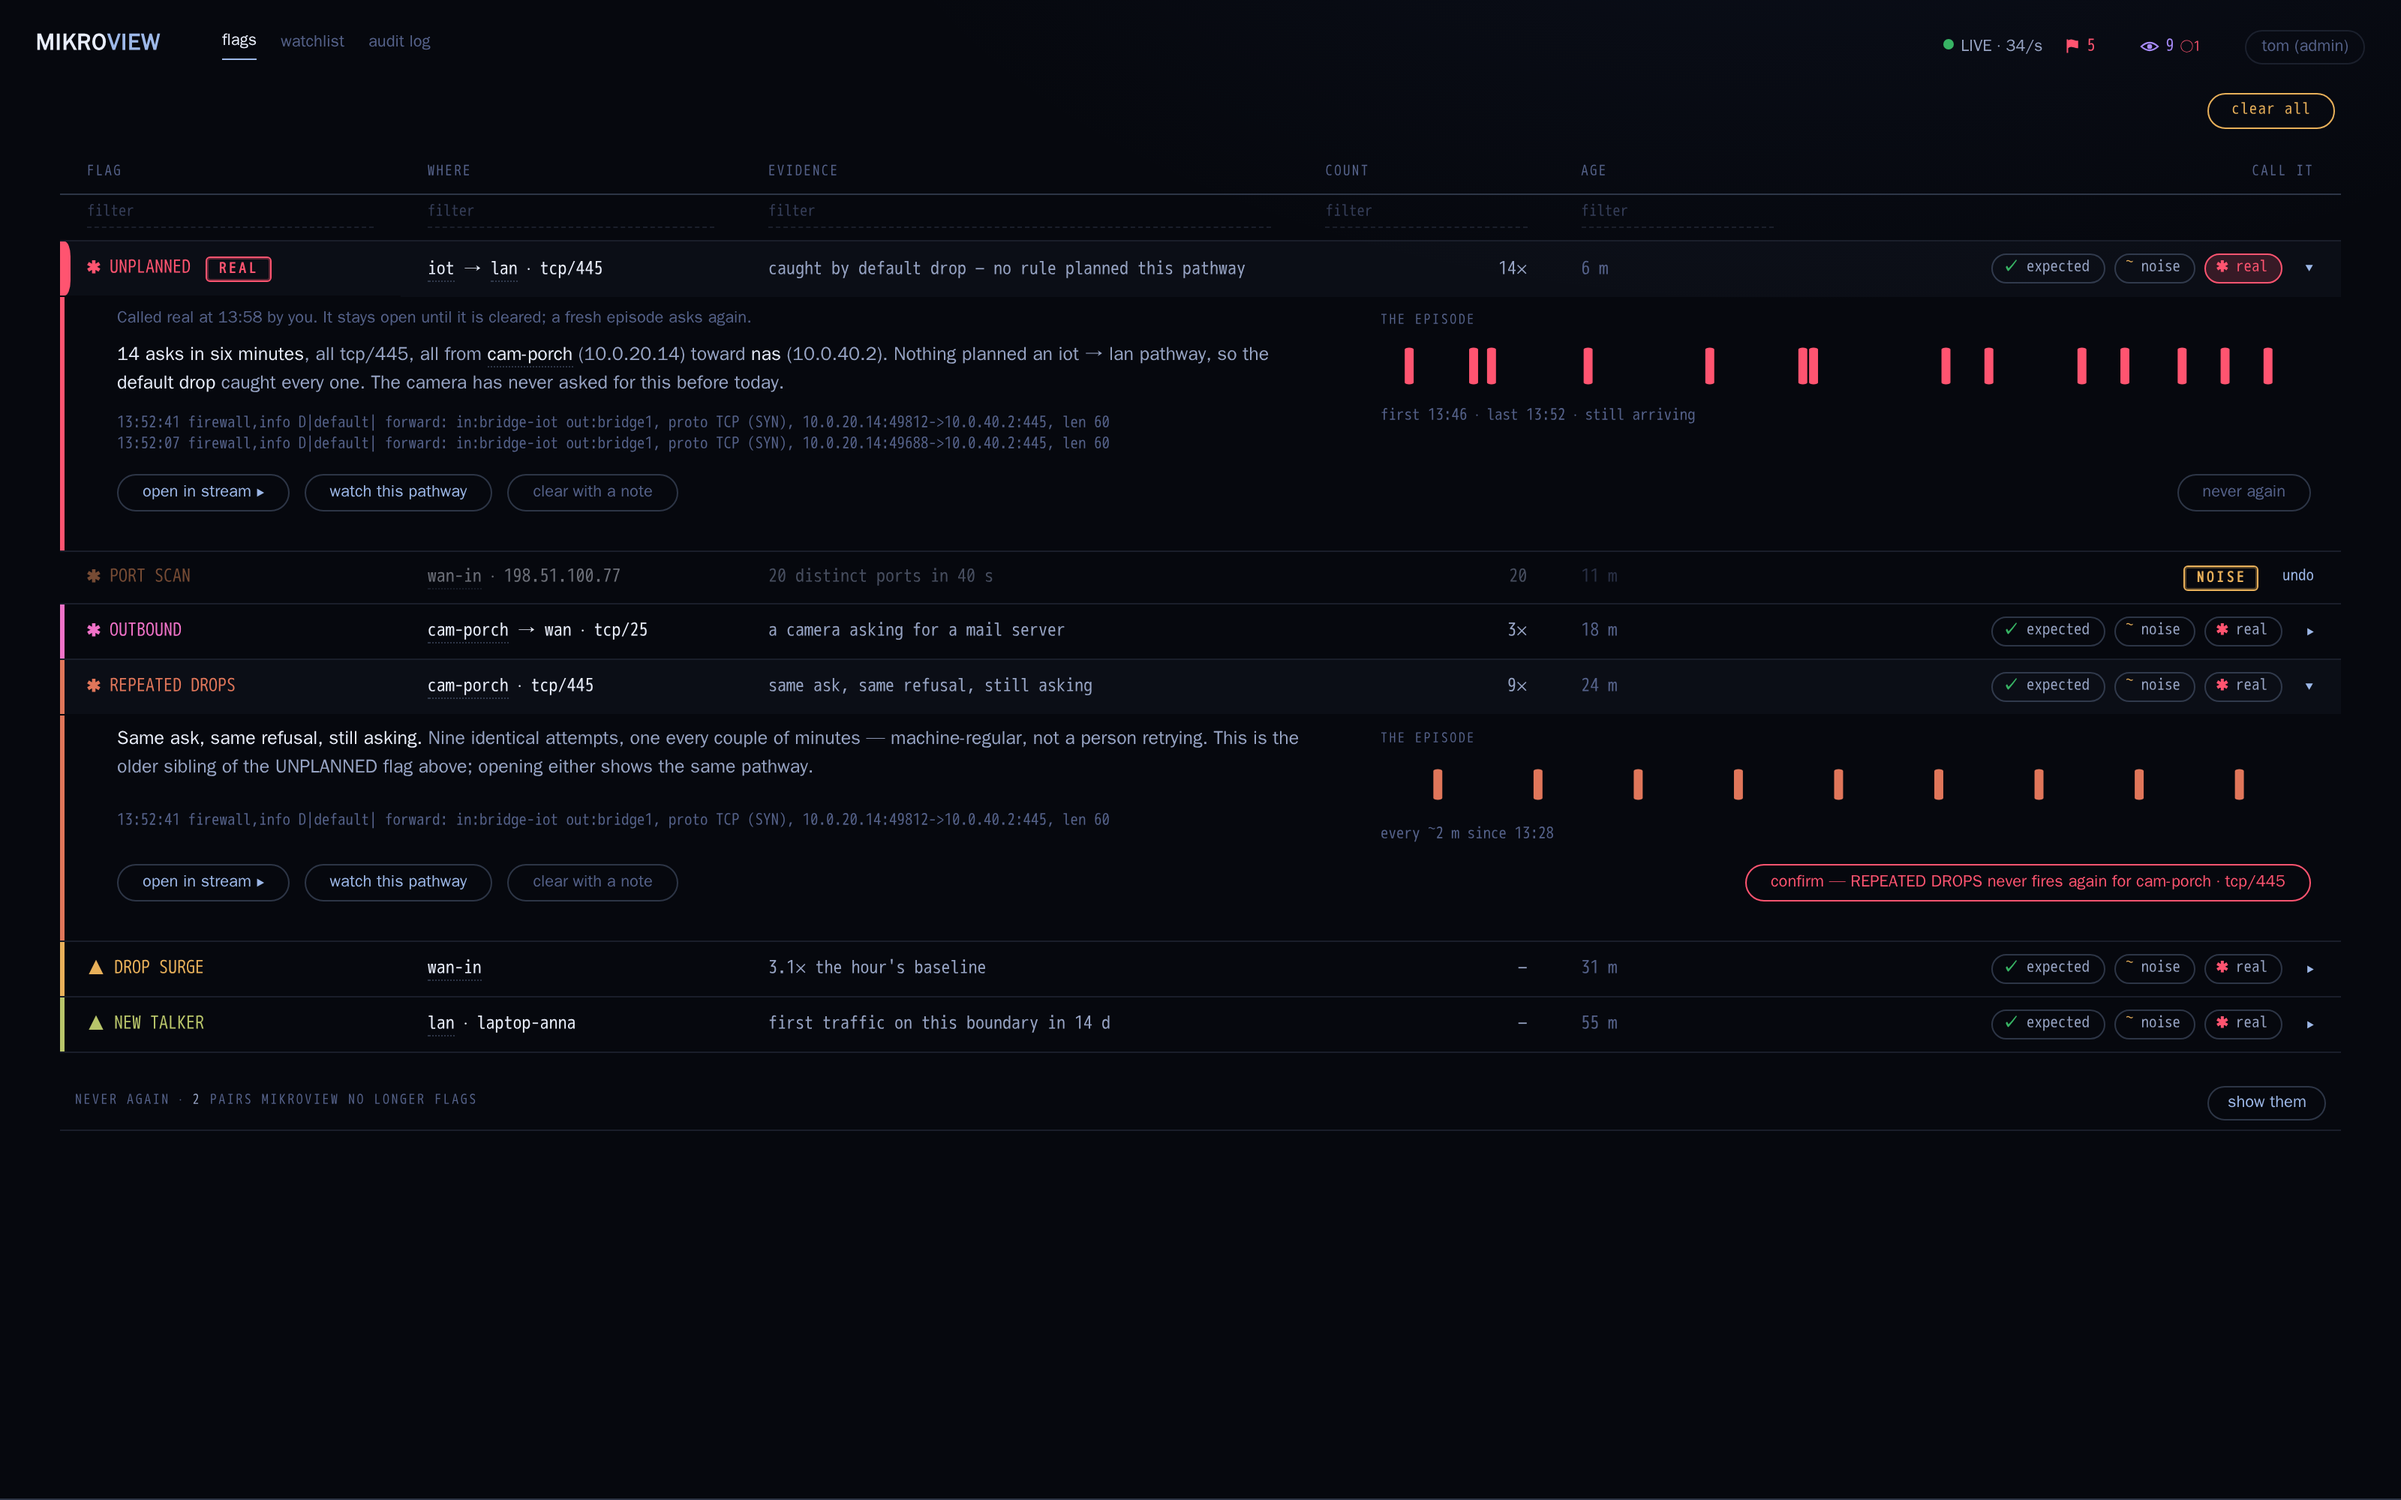
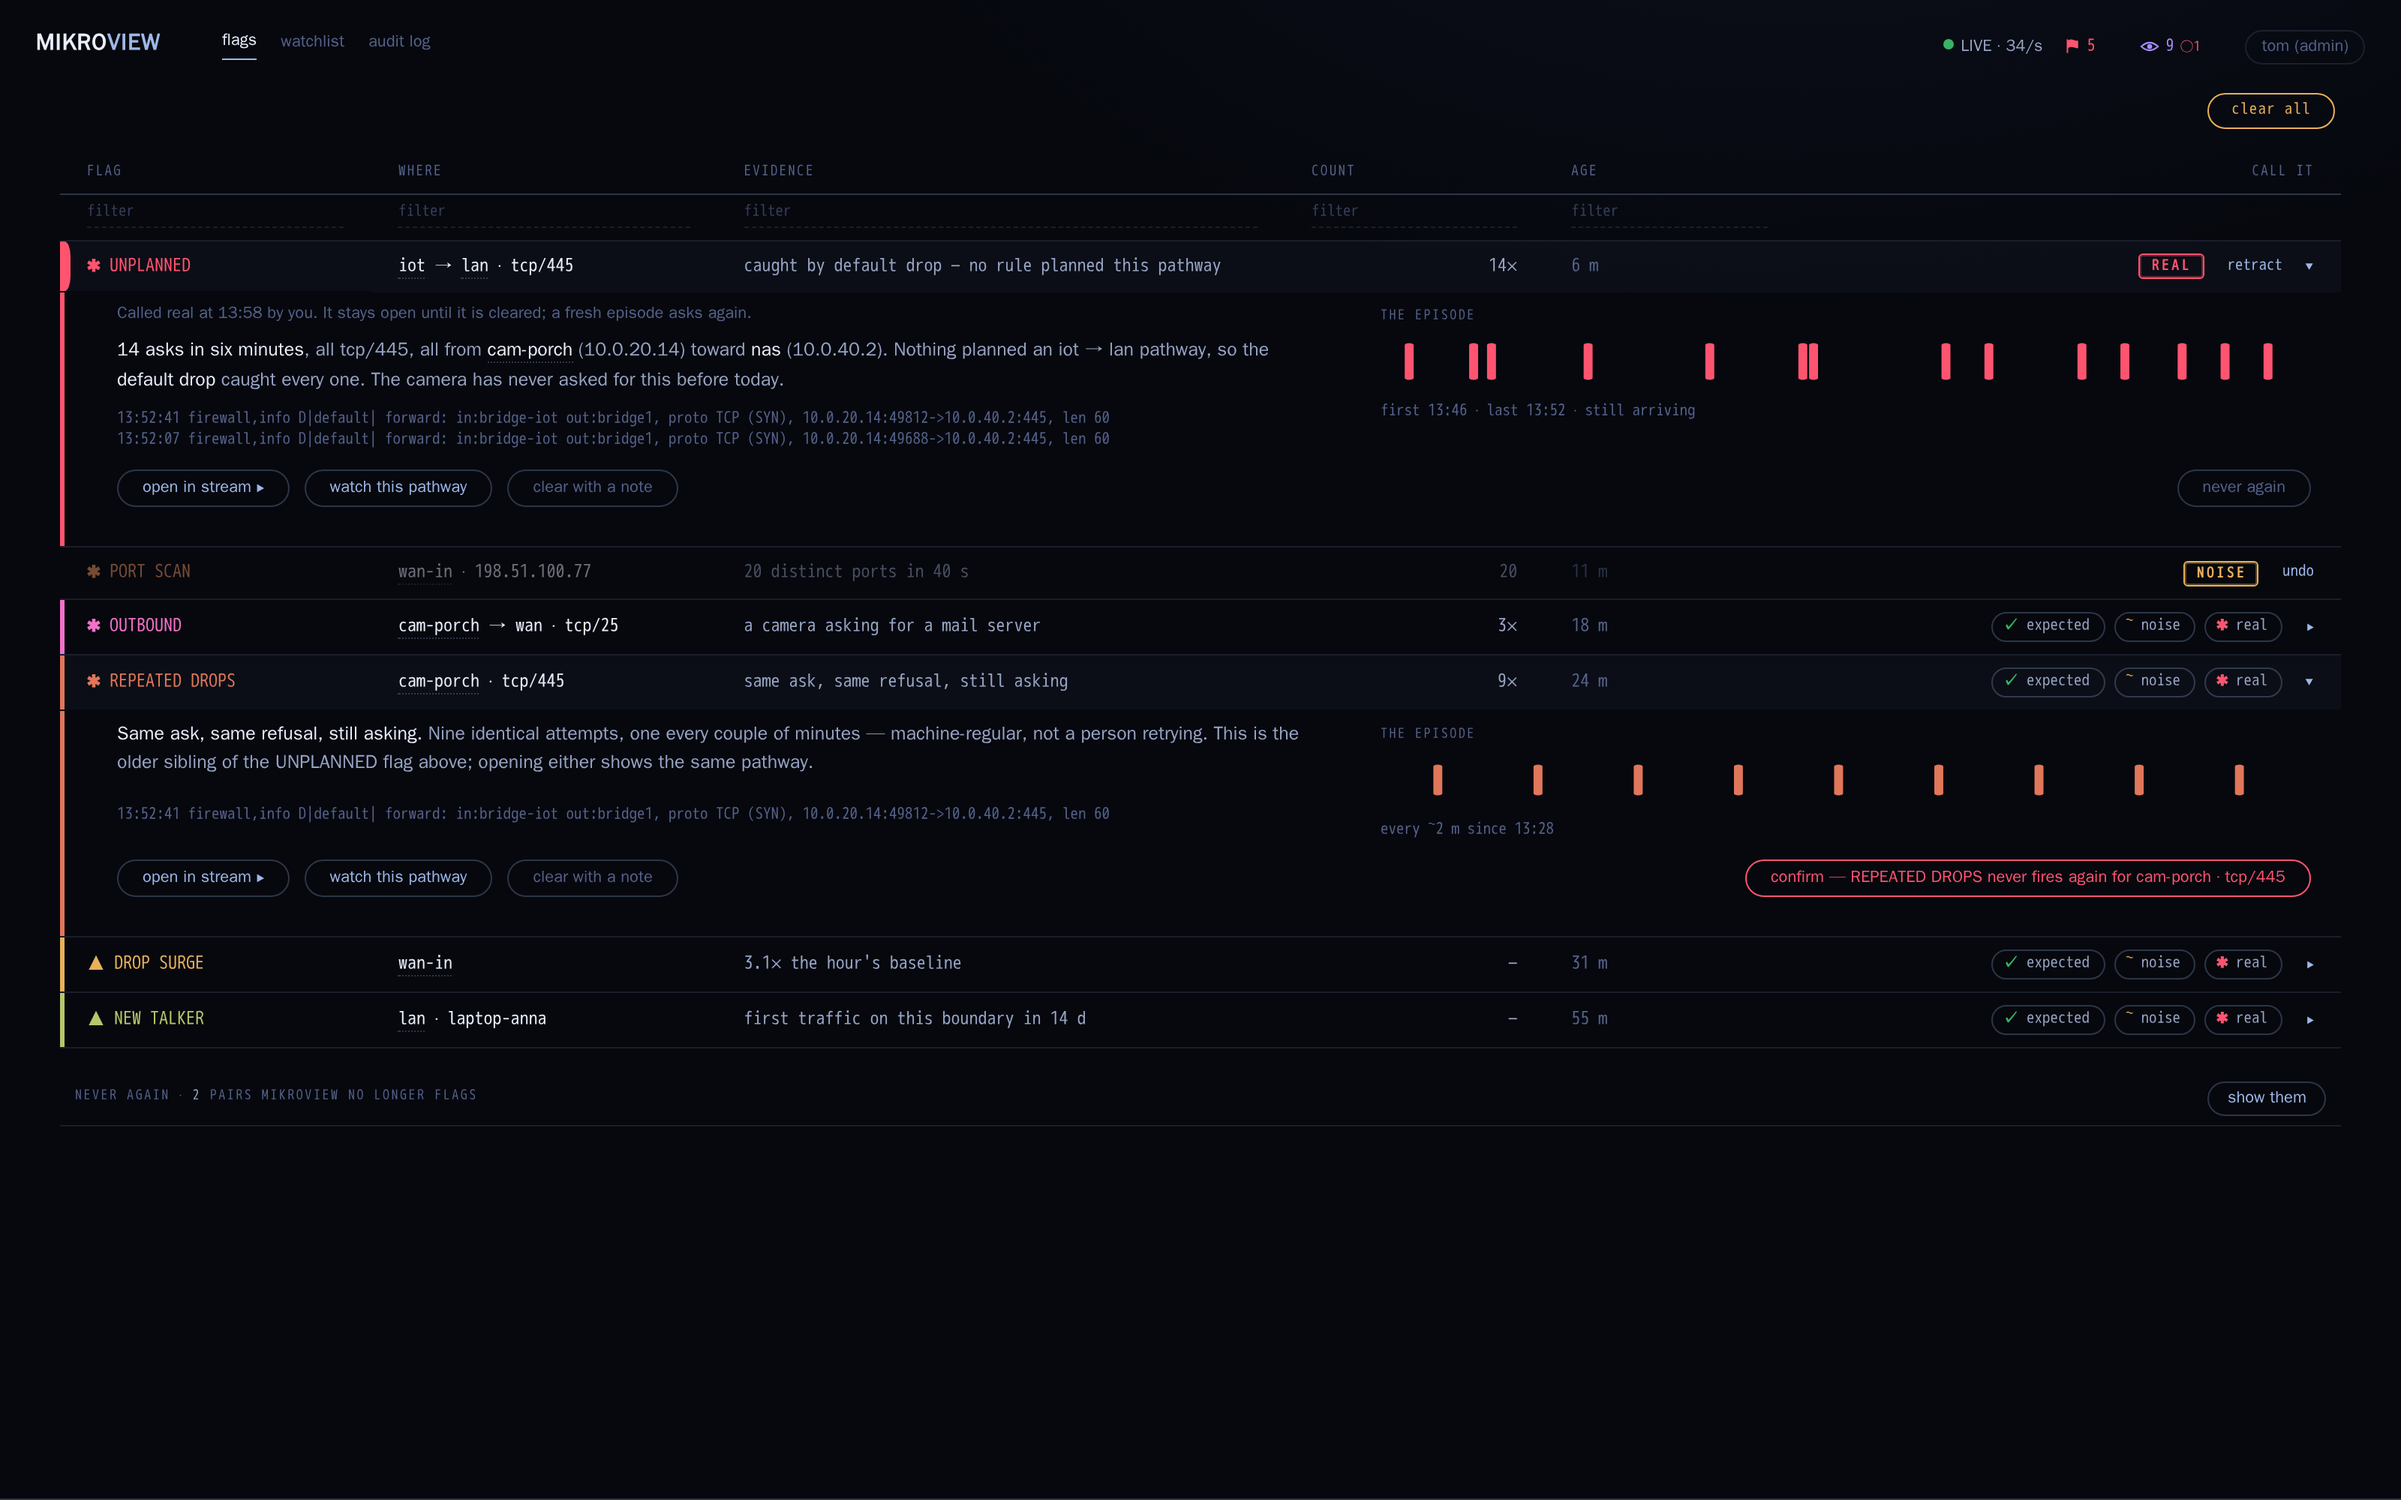
docs(design): round 35 — real's stamp joins the call-it column (#691)
Owner chose one rule for every stamp: real now stamps in place of the
chips with retract beside it and keeps its caret; nothing by the type.

diff --git a/docs/design/concepts/round-35/verdicts-in-row.html b/docs/design/concepts/round-35/verdicts-in-row.html
@@ -678,9 +678,7 @@
   @keyframes struck { from { background: color-mix(in srgb, var(--sc, var(--ink-3)) 16%, transparent); } }
   tr.frow.struck.expected { --sc: var(--ok); } tr.frow.struck.noise { --sc: var(--now); } tr.frow.struck.real { --sc: var(--alarm); }
   .vdone .by { color: var(--ink-3); margin-left: 8px; }
-  /* called real: the stamp sits by the type and the row's own bar thickens */
-  .fmark .stamp { margin-left: 10px; }
-  .fmark .by { font: 10.5px var(--mono); color: var(--ink-3); font-weight: 400; margin-left: 6px; }
+  /* called real: the stamp takes the chips' place and the row's own bar swells */
   /* the bar swells, it does not step: a lens over the 3 px bar, its ends arcing back to it */
   tr.frow td:first-child { position: relative; }
   tr.frow td:first-child::before { content: ''; position: absolute; left: 0; top: 0; bottom: 0; width: 3px; background: var(--alarm); opacity: 0; border-radius: 0 4px 4px 0 / 0 10px 10px 0; transition: width 0.35s ease, opacity 0.35s ease; }
@@ -693,7 +691,8 @@
   tr.frow.fdone td:first-child { box-shadow: none !important; }
   tr.frow.fdone td:last-child { opacity: 1; }
   /* takes the trio's place in the same cell, so the columns never move for it */
-  .vdone { font: 10.5px var(--mono); color: var(--ink-3); white-space: nowrap; display: inline-flex; align-items: center; gap: 8px; }
+  .vdone { font: 10.5px var(--mono); color: var(--ink-3); white-space: nowrap; display: inline-flex; align-items: center; gap: 8px; vertical-align: middle; }
+  .vdone + .openc { margin-left: 16px; }
   .vdone a { color: var(--accent); cursor: pointer; margin-left: 8px; }
   .vdone a:hover { text-decoration: underline; }
   /* called real: stays open, and says so where the type is */
@@ -1410,15 +1409,17 @@
         e.stopPropagation();
         var v = b.dataset.v, d = document.getElementById(r.dataset.d);
         if (v === 'real') {
-          var on = !b.classList.contains('on');
-          r.querySelectorAll('.v').forEach(function (x) { x.classList.toggle('on', on && x === b); });
-          var fm = r.querySelector('.fmark'), tag = fm.querySelector('.stamp');
-          r.classList.toggle('isreal', on);
-          if (on) { strike(r, 'real'); if (!tag) fm.insertAdjacentHTML('beforeend', '<span class="stamp real">real</span>'); }
-          else { r.classList.remove('struck', 'real'); if (tag) tag.remove(); }
-          var st = d.querySelector('.story'), c = st.querySelector('.called');
-          if (on && !c) st.insertAdjacentHTML('afterbegin', '<span class="called">Called real at 13:58 by you. It stays open until it is cleared; a fresh episode asks again.</span>');
-          else if (!on && c) c.remove();
+          // real keeps the flag open: the stamp takes the chips' place, with retract, and the bar swells
+          r.classList.add('isreal'); strike(r, 'real');
+          var c = r.cells[5];
+          c.innerHTML = '<span class="vdone"><span class="stamp real">real</span><a>retract</a></span><span class="openc">▸</span>';
+          var st = d.querySelector('.story');
+          st.insertAdjacentHTML('afterbegin', '<span class="called">Called real at 13:58 by you. It stays open until it is cleared; a fresh episode asks again.</span>');
+          c.querySelector('a').addEventListener('click', function (e) {
+            e.stopPropagation();
+            r.classList.remove('isreal', 'struck', 'real'); c.innerHTML = TRIO;
+            var cl = st.querySelector('.called'); if (cl) cl.remove();
+          });
           return;
         }
         done(r, v, v, '', true);

diff --git a/docs/design/concepts/round-35/README.md b/docs/design/concepts/round-35/README.md
@@ -28,12 +28,13 @@ exclusion is a verdict that outlives the flag** — and gains a corollary:
    colour and settles dim. The stamp takes the trio's place in the same
    cell, with `undo` beside it, so the columns never move. `undo` puts
    the trio back. `clear with a note` stamps `CLEARED` in the quiet ink.
-3. **Called real** stamps `REAL` beside the flag's type in alarm ink,
-   swells the row's own colour bar from 3 px to 7 px — a lens whose
-   ends arc back into the 3 px bar, so there is no stepped edge against
-   the rows above and below — lights the
-   `✱ real` chip, and the story leads with *Called real at 13:58 by
-   you…* whether or not the drawer is open. The flag stays open.
+3. **Called real** stamps `REAL` in the same column, in alarm ink,
+   with `retract` beside it and the caret still there — the flag stays
+   open, the row keeps its ink, and its own colour bar swells from 3 px
+   to 7 px as a lens whose ends arc back into the bar, so there is no
+   stepped edge against the rows above and below. The story leads with
+   *Called real at 13:58 by you…*. To call it something else later:
+   `retract`, then the chip. One rule: every stamp lives in `CALL IT`.
 4. **`never again`** stays in the drawer, now alone at the right of the
    action row: it is the one verdict that wants a second look and a
    confirm, and the drawer is where the evidence is. Its arm-then-
@@ -72,6 +73,5 @@ also a bit cheesey." — the stamps now sit square; the thump stays. Owner: "id 
 the bar were thickned by using an arc, so we don't get a jutted edge" —
 the real row's bar now swells as a lens.
 
-2026-09-01, owner: "33. stamps are good." Open: whether `real`'s stamp
-moves to the CALL IT column as `REAL · retract` (recommended) or stays
-beside the type.
+2026-09-01, owner: "33. stamps are good." On where `real`'s stamp lives:
+"36. your recommendation" — it moved into `CALL IT` with `retract`.
